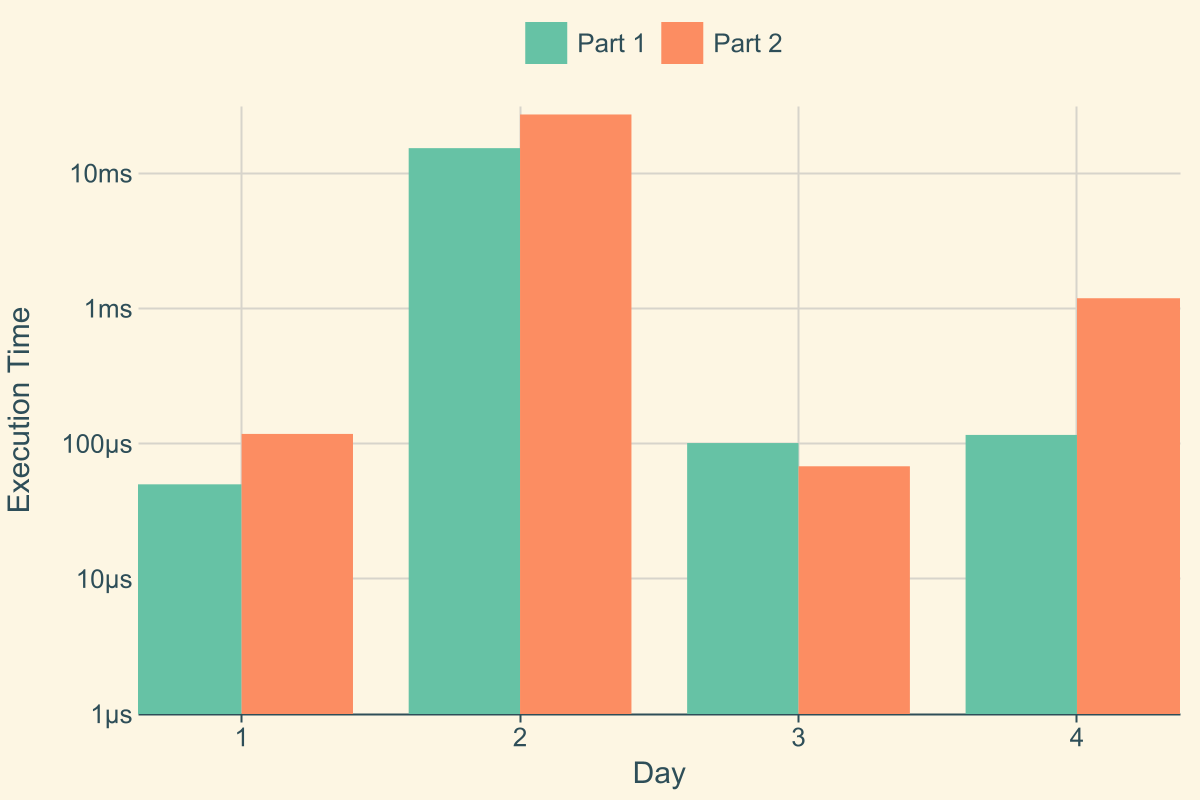
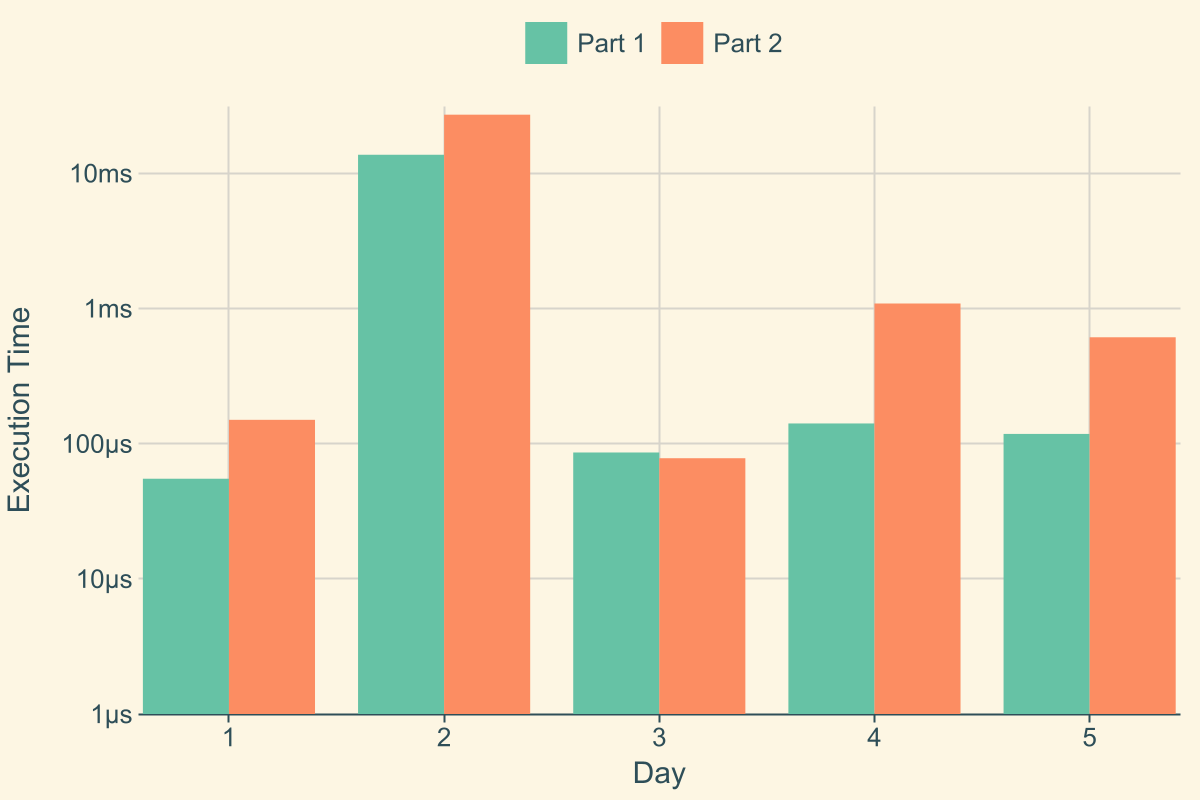
day04 1

Changed region(s): [[0.0925, 0.125, 0.8633, 0.9375], [0.8942, 0.3438, 0.9867, 0.9375]]

diff --git a/src/day05.rs b/src/day05.rs
@@ -1,0 +1,150 @@
+use crate::harness::Day;
+use crate::harness::Part;
+use std::ops::RangeInclusive;
+
+pub fn day05() -> Day<u64, u64> {
+    Day::new(5, Box::new(Part1 {}), Box::new(Part2 {}))
+}
+
+pub struct Part1;
+
+impl Part<u64> for Part1 {
+    fn expect_test(&self) -> u64 {
+        3
+    }
+
+    fn solve(&self, input: &[String]) -> u64 {
+        let input = Input::from(input);
+
+        let i = input
+            .inventory
+            .iter()
+            .filter(|e| input.ranges.iter().any(|range| range.contains(e)))
+            .count();
+
+        i as u64
+    }
+}
+
+pub struct Part2;
+
+impl Part<u64> for Part2 {
+    fn expect_test(&self) -> u64 {
+        14
+    }
+
+    fn solve(&self, input: &[String]) -> u64 {
+        let input = Input::from(input);
+
+        let ranges = vec![
+            RangeInclusive::new(5, 15),
+            RangeInclusive::new(1, 6),
+            RangeInclusive::new(8, 9),
+            RangeInclusive::new(14, 18),
+        ];
+
+        let mut ranges = input.ranges.into_iter().map(Some).collect::<Vec<_>>();
+
+        loop {
+            let mut size_before = ranges.iter().filter(|e| e.is_some()).count();
+
+            'outer: for i1 in 0..(ranges.len() - 1) {
+                if ranges[i1].is_none() {
+                    continue;
+                }
+                let r1 = ranges[i1].clone().unwrap();
+                for i2 in i1 + 1..ranges.len() {
+                    if ranges[i2].is_none() {
+                        continue;
+                    }
+                    let r2 = ranges[i2].clone().unwrap();
+
+                    let contains_start = r1.contains(r2.start());
+                    let contains_end = r1.contains(r2.end());
+
+                    let contains_start_1 = r2.contains(r1.start());
+                    let contains_end_1 = r2.contains(r1.end());
+
+                    if contains_start && contains_end {
+                        // println!("a");
+                        // println!("{:?}", r1);
+                        // println!("{:?}", r2);
+                        // println!("-> {:?}", ranges[i1]);
+                        // println!();
+                        ranges[i2] = None;
+                        break 'outer;
+                    } else if contains_start_1 && contains_end_1 {
+                        // println!("a_1");
+                        // println!("{:?}", r1);
+                        // println!("{:?}", r2);
+                        // println!("-> {:?}", ranges[i2]);
+                        // println!();
+                        ranges[i1] = None;
+                        break 'outer;
+                    } else if contains_start {
+                        // println!("b");
+                        // println!("{:?}", r1);
+                        // println!("{:?}", r2);
+                        // println!("-> {:?}", ranges[i1]);
+                        // println!();
+                        ranges[i1] = Some(RangeInclusive::new(*r1.start(), *r2.end()));
+                        ranges[i2] = None;
+                        break 'outer;
+                    } else if contains_end {
+                        // println!("c");
+                        // println!("{:?}", r1);
+                        // println!("{:?}", r2);
+                        // println!("-> {:?}", ranges[i1]);
+                        // println!();
+                        ranges[i1] = Some(RangeInclusive::new(*r2.start(), *r1.end()));
+                        ranges[i2] = None;
+                        break 'outer;
+                    }
+                }
+            }
+
+            // println!("{:?}", ranges);
+
+            if size_before == ranges.iter().filter(|e| e.is_some()).count() {
+                break;
+            }
+        }
+
+        // println!("{:?}", ranges);
+        ranges
+            .iter()
+            .flatten()
+            .map(|e| e.end() - e.start() + 1)
+            .sum()
+    }
+}
+
+struct Input {
+    ranges: Vec<RangeInclusive<u64>>,
+    inventory: Vec<u64>,
+}
+
+impl From<&[String]> for Input {
+    fn from(value: &[String]) -> Self {
+        let vec = value.split(|e| e.is_empty()).collect::<Vec<_>>();
+
+        let ranges_raw = vec[0];
+        let inventory_raw = vec[1];
+
+        let ranges = ranges_raw
+            .iter()
+            .map(|e| {
+                let range = e
+                    .split("-")
+                    .map(|e| e.parse::<u64>().unwrap())
+                    .collect::<Vec<_>>();
+
+                RangeInclusive::new(range[0], range[1])
+            })
+            .collect();
+
+        let inventory = inventory_raw.iter().map(|e| e.parse().unwrap()).collect();
+
+        Self { ranges, inventory }
+    }
+}

diff --git a/src/main.rs b/src/main.rs
@@ -13,7 +13,7 @@ use crate::day01::day01;
 use crate::day02::day02;
 use crate::day03::day03;
 use crate::day04::day04;
-// use crate::day05::day05;
+use crate::day05::day05;
 // use crate::day06::day06;
 // use crate::day07::day07;
 // use crate::day08::day08;
@@ -26,7 +26,7 @@ mod day01;
 mod day02;
 mod day03;
 mod day04;
-// mod day05;
+mod day05;
 // mod day06;
 // mod day07;
 // mod day08;
@@ -42,7 +42,7 @@ fn main() {
         day02().f(),
         day03().f(),
         day04().f(),
-        // day05().f(),
+        day05().f(),
         // day06().f(),
         // day07().f(),
         // day08().f(),
